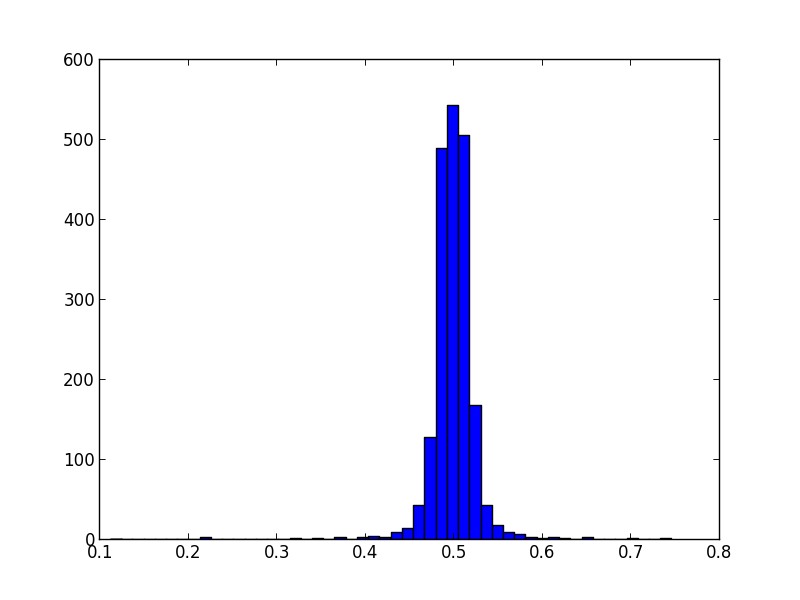
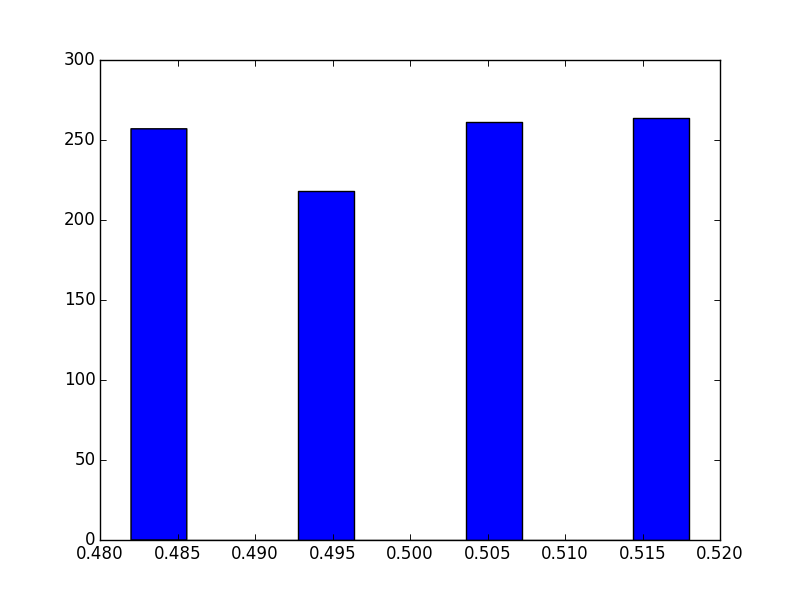
modified

diff --git a/fictitious-play.py b/fictitious-play.py
@@ -4,38 +4,51 @@ from mpl_toolkits.axes_grid.axislines import SubplotZero
 from random import uniform
 import numpy as np
 
-ts_length = 2000
-pay0 = np.array([[1, -1],[-1, 1]])
-pay1 = np.array([[-1, 1],[1, -1]])
-cur_x0, cur_x1 = uniform(0, 1), uniform(0, 1)
-x0s = [cur_x0]
-x1s = [cur_x1]
+t = 1000
 
-for i in range(ts_length):
+def fict(t):
+    pay0 = np.array([[1, -1], [-1, 1]])
+    pay1 = np.array([[-1, 1], [1, -1]])
+    cur_x0, cur_x1 = uniform(0, 1), uniform(0, 1)
+    x0s = []
+    x1s = []
+
+    for i in range(t):
+        pro0 = np.array([1-cur_x1, cur_x1])
+        pro1 = np.array([1-cur_x0, cur_x0])
+        exp0 = np.dot(pay0, pro1)
+        exp1 = np.dot(pay1, pro0)
     
-    pro0 = np.array([1-cur_x1, cur_x1])
-    pro1 = np.array([1-cur_x0, cur_x0])
-    exp0 = np.dot(pay0, pro1)
-    exp1 = np.dot(pay1, pro0)
+        if exp0[0] > exp0[1]:
+            cur_a0 = 0
+        elif exp0[0] < exp0[1]:
+            cur_a0 = 1
+        else:
+            cur_a0 = random.choice([0, 1])
+            
+        if exp1[0] > exp1[1]:
+            cur_a1 = 0
+        elif exp1[0] < exp1[1]:
+            cur_a1 = 1
+        else:
+            cur_a1 = random.choice([0, 1])
 
-    if exp0[0] > exp0[1]:
-        cur_a0 = 0
-    elif exp0[0] < exp0[1]:
-        cur_a0 = 1
-    else:
-        cur_a0 = random.choice([0, 1])
-        
-    if exp1[0] > exp1[1]:
-        cur_a1 = 0
-    elif exp1[0] < exp1[1]:
-        cur_a1 = 1
-    else:
-        cur_a1 = random.choice([0, 1])
+        x0s.append(cur_x0)
+        x1s.append(cur_x1)
+        cur_x0 = cur_x0 + (cur_a1 - cur_x0)/(i + 2)
+        cur_x1 = cur_x1 + (cur_a0 - cur_x1)/(i + 2)
 
-    x0s.append(cur_x0)
-    x1s.append(cur_x1)
-    cur_x0 = cur_x0 + (cur_a1 - cur_x0)/(i + 2)
-    cur_x1 = cur_x1 + (cur_a0 - cur_x1)/(i + 2)
+    return x0s, x1s
+
+def ficthist(t):
+    x0_last = []
+    for i in range(t):
+        x0s, x1s = fict(t)
+        x0_last.append(x0s[-1])
+    return x0_last
+
+x0s, x1s = fict(t)
+
 fig, ax = plt.subplots()
 ax.plot(x0s, 'r-')
 ax.plot(x1s, 'b-')
@@ -43,11 +56,12 @@ ax.plot(x1s, 'b-')
 #plt.savefig('fictitious.pdf')
 plt.show()
 
+
 fig = plt.figure()
 ax = SubplotZero(fig, 111)
 fig.add_subplot(ax)
-ax.hist(x0s, bins = 50)
-#plt.savefig('fictitious_hist.png')
-#plt.savefig('fictitious_hist.pdf')
+ax.hist(ficthist(t))
+plt.savefig('fictitious_hist.png')
+plt.savefig('fictitious_hist.pdf')
 plt.show()
 
